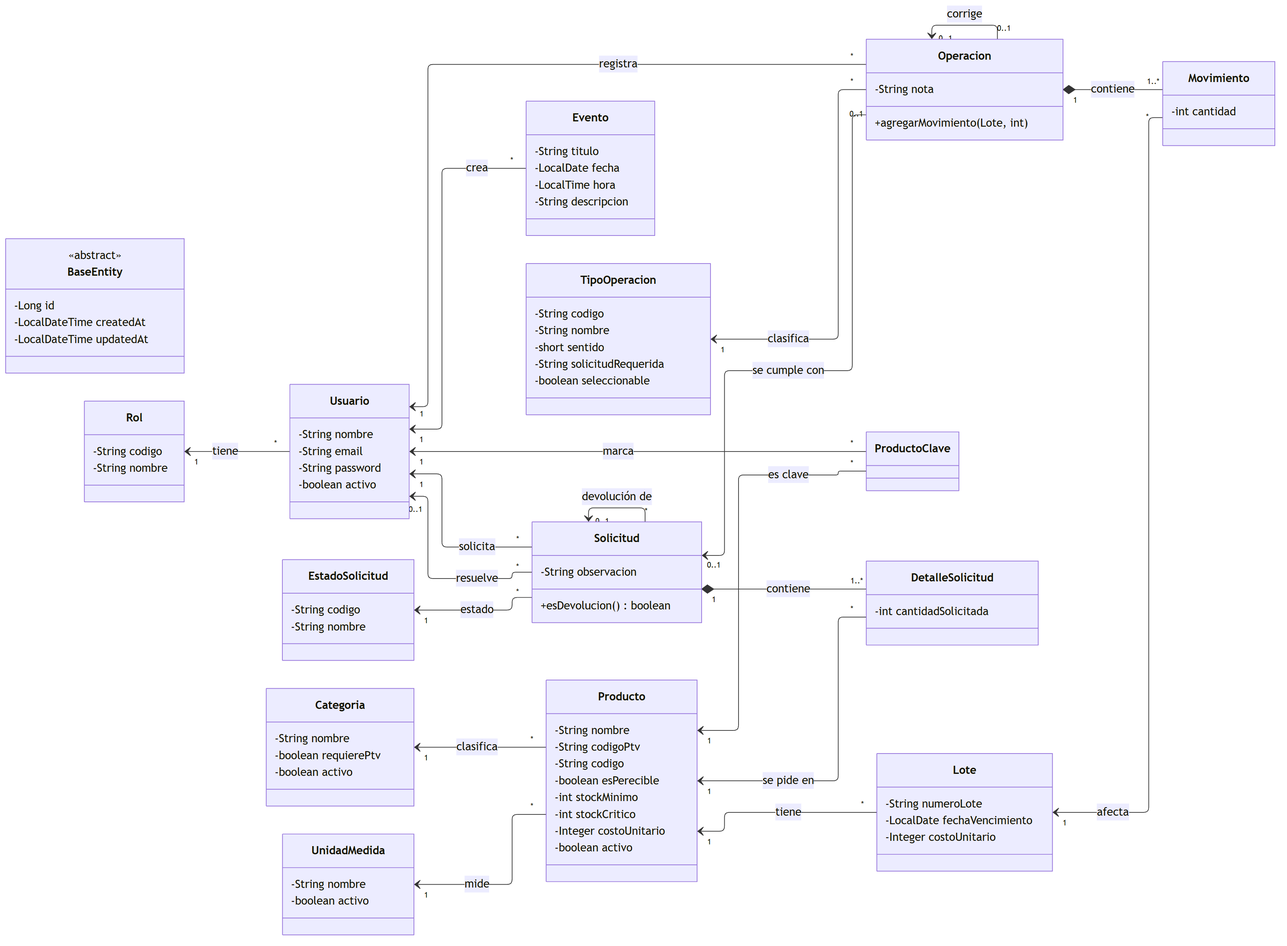
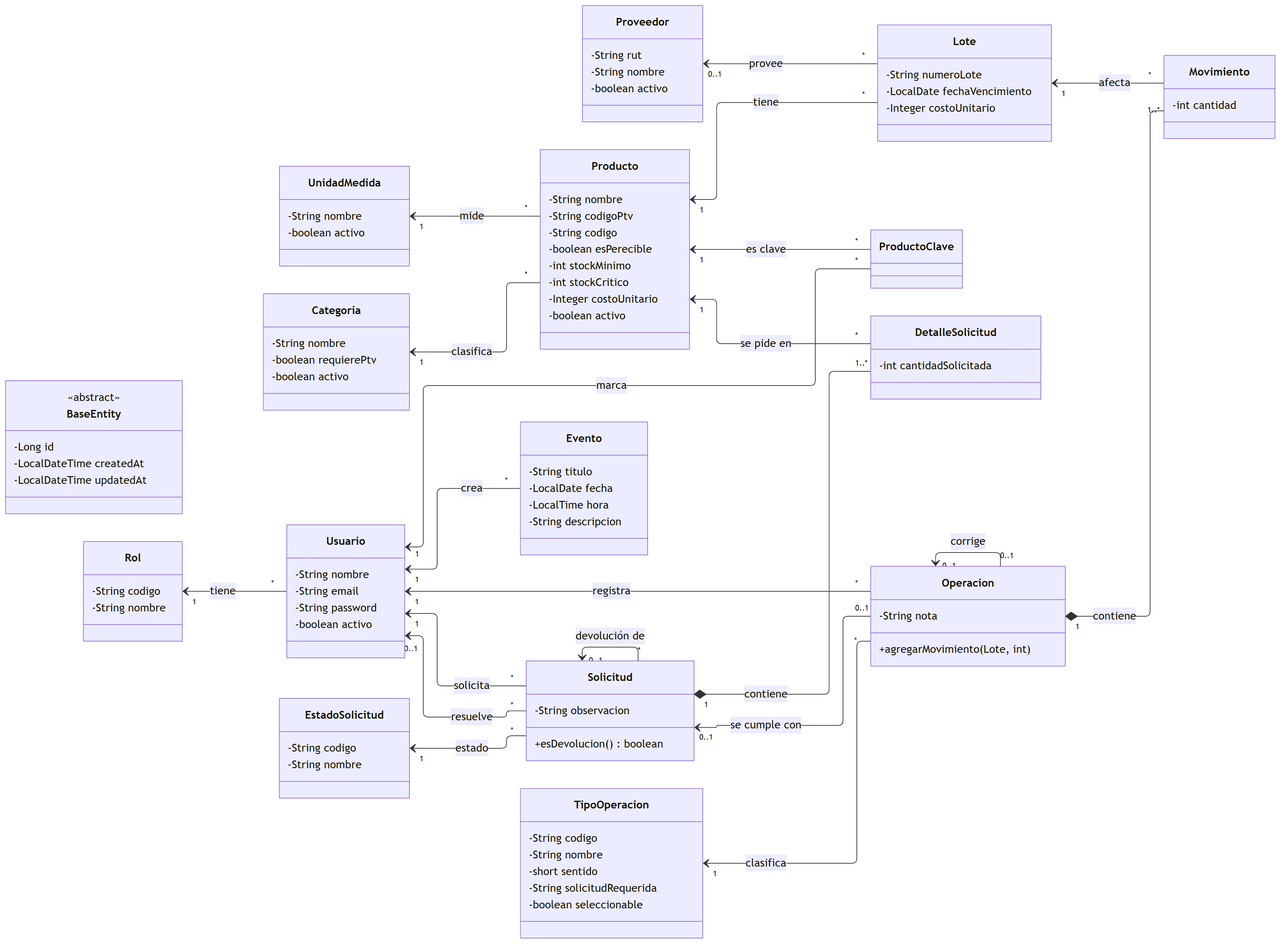
docs(modelo): proveedores, lotes.proveedor_id y diagramas actualizados (iteración 6)

diff --git a/FASE 2/EVIDENCIAS PROYECTO/EVIDENCIAS DE DOCUMENTACIÓN/08-DIAGRAMAS-UML.md b/FASE 2/EVIDENCIAS PROYECTO/EVIDENCIAS DE DOCUMENTACIÓN/08-DIAGRAMAS-UML.md
@@ -1,7 +1,7 @@
 # Diagramas UML — Smart RDP
 
 > Proyecto de Título PTY4614-002D · Equipo 3 · Duoc UC, Sede San Bernardo
-> Versión: borrador para revisión · 26-11-2026 (se actualizó con el panel de analítica)
+> Versión: borrador para revisión · 26-11-2026 (se actualizó con proveedores y la consulta de lotes)
 
 ## 1. Alcance
 
@@ -20,9 +20,11 @@ Los diagramas están escritos en [Mermaid](https://mermaid.js.org), que GitHub d
 
 ## 2. Diagrama de casos de uso
 
-El **Administrador** administra usuarios, usa el panel de analítica y consulta en solo lectura productos, movimientos, stock, alertas y calendario. El **Bodeguero** administra todo lo demás pero no a los usuarios, es el único que aprueba solicitudes, registra las entradas (una compra exige el costo unitario, que alimenta el historial de precios), puede cargarlas desde una planilla Excel, lleva el calendario de eventos de la bodega y también usa el panel de analítica. El **Empleado** no inicia sesión: usa la vista pública y se identifica con su nombre y su contraseña en cada acción; no accede al panel.
+El **Administrador** administra usuarios, usa el panel de analítica y consulta en solo lectura productos, movimientos, stock, alertas, lotes y calendario. El **Bodeguero** administra todo lo demás pero no a los usuarios, es el único que aprueba solicitudes, registra las entradas (una compra exige el costo unitario, que alimenta el historial de precios, y el proveedor), puede cargarlas desde una planilla Excel, mantiene el registro de proveedores, lleva el calendario de eventos de la bodega y también usa el panel de analítica. El **Empleado** no inicia sesión: usa la vista pública y se identifica con su nombre y su contraseña en cada acción; no accede al panel.
 
-El panel de analítica es un caso base, **Consultar panel de analítica**, cuyos bloques (consumo neto, pérdidas, solicitado, pedidos por persona y productos más usados) comparten un mismo filtro: rango de fechas, agrupación por día, semana o mes, categoría, productos y persona. Siempre incluye los vencimientos próximos; el historial de precios de compra (al elegir un producto), los productos clave (una lista propia de cada usuario) y la exportación a Excel con los filtros aplicados son extensiones que el usuario activa cuando las necesita.
+El panel de analítica es un caso base, **Consultar panel de analítica**, cuyos bloques (consumo neto, pérdidas, solicitado, pedidos por persona y productos más usados) comparten un mismo filtro: rango de fechas, agrupación por día, semana o mes, categoría, productos, persona y proveedor; además muestra las compras por proveedor. Siempre incluye los vencimientos próximos; el historial de precios de compra (al elegir un producto, con su comparación por proveedor), los productos clave (una lista propia de cada usuario) y la exportación a Excel con los filtros aplicados son extensiones que el usuario activa cuando las necesita.
+
+**Consultar lotes** lo usan el Administrador y el Bodeguero: lista los lotes con filtros (producto, categoría, proveedor, estado, número de lote y días por vencer), en orden FEFO, y abre el detalle de un lote con su trazabilidad; solo lee, porque los lotes nacen con las entradas. **Gestionar proveedores** (crear, editar, deshabilitar y reactivar, con el RUT validado) es del Bodeguero, igual que las categorías y las unidades de medida.
 
 ```mermaid
 flowchart LR
@@ -36,7 +38,9 @@ flowchart LR
         uc7(["Consultar stock y alertas de vencimiento"])
         uc3(["Gestionar productos"])
         uc4(["Administrar categorías y unidades de medida"])
-        uc5(["Registrar entrada con lote, vencimiento y costo de compra"])
+        uc22(["Gestionar proveedores"])
+        uc5(["Registrar entrada con lote, vencimiento, costo y proveedor de la compra"])
+        uc23(["Consultar lotes y su trazabilidad"])
         uc6(["Registrar salida por FEFO"])
         uc8(["Aprobar o rechazar solicitudes"])
         uc9(["Consultar historial de movimientos y solicitudes"])
@@ -50,7 +54,7 @@ flowchart LR
         subgraph PAN["Panel de analítica"]
             uc2(["Consultar panel de analítica con filtros compartidos"])
             uc18(["Ver vencimientos próximos"])
-            uc19(["Ver historial de precios de compra"])
+            uc19(["Ver historial de precios de compra y compararlo por proveedor"])
             uc20(["Definir mis productos clave"])
             uc21(["Exportar movimientos a Excel con los filtros"])
         end
@@ -60,11 +64,14 @@ flowchart LR
     adm --- uc17
     adm --- uc2
     adm --- uc7
+    adm --- uc23
 
     bod --- uc2
     bod --- uc7
     bod --- uc3
     bod --- uc4
+    bod --- uc22
+    bod --- uc23
     bod --- uc5
     bod --- uc6
     bod --- uc8
@@ -96,7 +103,7 @@ flowchart LR
 
 ## 3. Diagrama de clases del dominio
 
-Todas las entidades de negocio heredan de `BaseEntity` (`id`, `createdAt`, `updatedAt`). `Evento` es una agenda compartida de los bodegueros, sin historial ni triggers. Solo `Solicitud` y `Usuario` tienen historial con Hibernate Envers; `Operacion`, `Movimiento` y `Lote` son inmutables (`@Immutable`, y triggers en la base). El stock no es un atributo: se calcula con vistas. `Lote.costoUnitario` es el costo con que entró el lote: en una compra es obligatorio y de él sale el historial de precios del panel; `Producto.costoUnitario` es solo un valor de referencia. `ProductoClave` (migración V4) es la lista personal de productos que cada usuario sigue en el panel de analítica: une un `Usuario` con un `Producto`, una sola vez por par, sin historial y con borrado en cascada.
+Todas las entidades de negocio heredan de `BaseEntity` (`id`, `createdAt`, `updatedAt`). `Evento` es una agenda compartida de los bodegueros, sin historial ni triggers. `Proveedor` (migración V5) es el mantenedor de a quién se le compra: tiene RUT normalizado y único, nombre único sin distinguir mayúsculas y estado `activo`; hereda de `BaseEntity` y no de la base de los catálogos de nombre corto (`CatalogoEntity`), porque necesita un nombre de 100 caracteres y una unicidad distinta. Cada `Lote` tiene cero o un `Proveedor`: es obligatorio en una compra (regla del servicio, no de la base) y los lotes anteriores a V5 no lo tienen. Solo `Solicitud` y `Usuario` tienen historial con Hibernate Envers; `Operacion`, `Movimiento` y `Lote` son inmutables (`@Immutable`, y triggers en la base). El stock no es un atributo: se calcula con vistas. `Lote.costoUnitario` es el costo con que entró el lote: en una compra es obligatorio y de él sale el historial de precios del panel; `Producto.costoUnitario` es solo un valor de referencia. `ProductoClave` (migración V4) es la lista personal de productos que cada usuario sigue en el panel de analítica: une un `Usuario` con un `Producto`, una sola vez por par, sin historial y con borrado en cascada.
 
 ```mermaid
 classDiagram
@@ -174,12 +181,18 @@ classDiagram
         -String descripcion
     }
     class ProductoClave
+    class Proveedor {
+        -String rut
+        -String nombre
+        -boolean activo
+    }
 
 
     Rol "1" <-- "*" Usuario : tiene
     Categoria "1" <-- "*" Producto : clasifica
     UnidadMedida "1" <-- "*" Producto : mide
     Producto "1" <-- "*" Lote : tiene
+    Proveedor "0..1" <-- "*" Lote : provee
     Producto "1" <-- "*" ProductoClave : es clave
     Usuario "1" <-- "*" ProductoClave : marca
     TipoOperacion "1" <-- "*" Operacion : clasifica
@@ -283,7 +296,7 @@ sequenceDiagram
 
 ## 6. Diagrama de arquitectura y despliegue
 
-La arquitectura es **cliente-servidor**: una aplicación de una sola página (SPA) en Angular consume una API REST de Spring Boot, que persiste en PostgreSQL. El backend es un **monolito modular en capas** (controlador, servicio, repositorio) con un paquete por dominio: `producto`, `movimiento`, `solicitud`, `usuario`, `catalogo`, `analitica`, `auditoria`, `evento`, `publico`. La seguridad es sin estado: el cliente envía un token JWT en cada petición y un filtro valida el rol antes de llegar al controlador. El panel de analítica se sirve bajo `/api/analitica/panel/*` (resumen, consumo por período, productos más usados, pedidos por persona, precios y productos clave), junto a `/api/analitica/vencimientos` y `/api/analitica/exportar-movimientos`; todo `/api/analitica` es solo para Administrador y Bodeguero.
+La arquitectura es **cliente-servidor**: una aplicación de una sola página (SPA) en Angular consume una API REST de Spring Boot, que persiste en PostgreSQL. El backend es un **monolito modular en capas** (controlador, servicio, repositorio) con un paquete por dominio: `producto`, `movimiento`, `solicitud`, `usuario`, `catalogo`, `analitica`, `auditoria`, `evento`, `publico`. La seguridad es sin estado: el cliente envía un token JWT en cada petición y un filtro valida el rol antes de llegar al controlador. El panel de analítica se sirve bajo `/api/analitica/panel/*` (resumen, consumo por período, productos más usados, pedidos por persona, precios, compras por proveedor y productos clave), junto a `/api/analitica/vencimientos` y `/api/analitica/exportar-movimientos`; todo `/api/analitica` es solo para Administrador y Bodeguero.
 
 ```mermaid
 flowchart LR
@@ -293,13 +306,13 @@ flowchart LR
 
     subgraph SRV["Servidor local o red LAN: Spring Boot 4, Java 21"]
         SEC["Seguridad<br/>JwtAuthenticationFilter y SecurityConfig<br/>(roles Administrador, Bodeguero, Empleado)"]
-        CTL["Capa web: controladores REST<br/>/api/auth, /api/productos, /api/movimientos,<br/>/api/categorias, /api/unidades-medida,<br/>/api/solicitudes, /api/auditoria,<br/>/api/analitica y /api/analitica/panel,<br/>/api/usuarios, /api/publico,<br/>/api/eventos"]
+        CTL["Capa web: controladores REST<br/>/api/auth, /api/productos, /api/movimientos,<br/>/api/categorias, /api/unidades-medida,<br/>/api/proveedores, /api/lotes,<br/>/api/solicitudes, /api/auditoria,<br/>/api/analitica y /api/analitica/panel,<br/>/api/usuarios, /api/publico,<br/>/api/eventos"]
         SVC["Capa de servicios<br/>reglas de negocio, FEFO y transacciones"]
         REP["Capa de persistencia<br/>Spring Data JPA, Hibernate y Envers"]
         SEC --> CTL --> SVC --> REP
     end
 
-    DB[("PostgreSQL<br/>base smartrdp<br/>esquema con Flyway (V1 a V4)")]
+    DB[("PostgreSQL<br/>base smartrdp<br/>esquema con Flyway (V1 a V5)")]
 
     SPA -- "HTTP y JSON,<br/>Authorization: Bearer" --> SEC
     REP -- "JDBC" --> DB
@@ -312,7 +325,7 @@ flowchart LR
 | Estilo general | Cliente-servidor con SPA y API REST | Separa la interfaz de las reglas de negocio y deja el frontend reutilizable. |
 | Organización del backend | Monolito modular en capas, un paquete por dominio | Es simple de desplegar en el restaurante y suficiente para un equipo de tres personas. |
 | Seguridad | Autenticación con JWT sin estado y control de acceso por rol (RBAC) | El servidor no guarda sesiones y cada ruta declara qué roles la usan. |
-| Persistencia | JPA con Hibernate sobre PostgreSQL; auditoría con Envers; esquema versionado con Flyway (V4 agrega `productos_clave`) | Trazabilidad de quién cambió qué y cuándo, sin código manual en la lógica de negocio; cada cambio de esquema queda como una migración. |
+| Persistencia | JPA con Hibernate sobre PostgreSQL; auditoría con Envers; esquema versionado con Flyway (V4 agrega `productos_clave` y V5 agrega `proveedores`) | Trazabilidad de quién cambió qué y cuándo, sin código manual en la lógica de negocio; cada cambio de esquema queda como una migración. |
 | Despliegue | Local o en la red LAN del restaurante; el `docker-compose.yml` levanta PostgreSQL, el backend y el frontend (nginx) | Corresponde a la restricción de conectividad local del proyecto. La decisión final de infraestructura sigue pendiente con el cliente. |
 
 ## 7. Diagrama de componentes
@@ -324,9 +337,9 @@ flowchart LR
     subgraph FE["Frontend: Angular 22 (SPA) servida por nginx o ng serve"]
         direction TB
         FCORE["core<br/>sesión y guardias de ruta,<br/>interceptor que agrega el JWT,<br/>manejo de errores y avisos"]
-        FFEAT["features<br/>productos, movimientos, solicitudes,<br/>calendario, usuarios,<br/>vista pública del empleado"]
-        FANA["features/analitica<br/>panel con filtros compartidos,<br/>gráficos, vencimientos, precios<br/>y productos clave"]
-        FSH["shared<br/>modal, paginación,<br/>orden, confirmación,<br/>estados y calendario"]
+        FFEAT["features<br/>productos, movimientos y lotes, solicitudes,<br/>calendario, usuarios,<br/>administración (categorías,<br/>unidades y proveedores),<br/>vista pública del empleado"]
+        FANA["features/analitica<br/>panel con filtros compartidos,<br/>gráficos, vencimientos, precios,<br/>compras por proveedor<br/>y productos clave"]
+        FSH["shared<br/>modal, paginación,<br/>orden, confirmación,<br/>estados, calendario<br/>y proveedores (servicio y RUT)"]
         FFEAT --> FCORE
         FFEAT --> FSH
         FANA --> FCORE
@@ -340,8 +353,8 @@ flowchart LR
         subgraph DOM["Componentes de dominio: controlador, servicio y repositorio"]
             direction LR
             PRO["producto"]
-            CAT["catalogo"]
-            MOV["movimiento<br/>(operaciones, lotes, FEFO)"]
+            CAT["catalogo<br/>(categorías, unidades<br/>y proveedores)"]
+            MOV["movimiento<br/>(operaciones, lotes y su consulta, FEFO)"]
             SOL["solicitud<br/>(pedidos y devoluciones)"]
             USU["usuario"]
             EVE["evento"]
@@ -354,6 +367,7 @@ flowchart LR
         DOM -.-> EXC
         PRO --> CAT
         MOV --> PRO
+        MOV --> CAT
         SOL --> MOV
         SOL --> USU
         ANA --> MOV
@@ -378,8 +392,10 @@ Versión en imagen: [DIAGRAMA DE COMPONENTES.png](DIAGRAMA%20DE%20COMPONENTES.pn
 | Desde | Hacia | Interfaz | Detalle |
 |---|---|---|---|
 | Frontend (`core`) | Seguridad del backend | API REST sobre HTTP y JSON | Cada petición lleva `Authorization: Bearer <token JWT>`; el filtro valida el token y el rol antes de llegar al controlador. |
-| Frontend (`features/analitica`) | `analitica` | API REST `/api/analitica/panel/*`, `/api/analitica/vencimientos` y `/api/analitica/exportar-movimientos` | Todos los bloques reciben el mismo filtro (fechas, agrupación, categoría, productos y persona); la exportación devuelve un archivo `.xlsx` con esos filtros. Las listas largas usan el paginador compartido `app-paginacion` de `shared`. |
+| Frontend (`features/analitica`) | `analitica` | API REST `/api/analitica/panel/*`, `/api/analitica/vencimientos` y `/api/analitica/exportar-movimientos` | Todos los bloques reciben el mismo filtro (fechas, agrupación, categoría, productos, persona y proveedor); la exportación devuelve un archivo `.xlsx` con esos filtros. Las listas largas usan el paginador compartido `app-paginacion` de `shared`. |
 | `analitica` | `movimiento`, `producto` y `usuario` | Llamadas a métodos dentro del mismo proceso | Lee el libro de movimientos y las vistas de inventario, los productos y los usuarios (solicitantes y usuario autenticado, dueño de sus productos clave). |
+| Frontend (`features/movimientos` y `features/administracion`) | `movimiento` y `catalogo` | API REST `/api/lotes` (solo lectura: lista con filtros y detalle con trazabilidad) y `/api/proveedores` | El servicio `ProveedorService` de `shared` consulta y mantiene los proveedores; el RUT se valida también en el cliente con el módulo 11. La lectura es para Administrador y Bodeguero; crear, editar, deshabilitar y reactivar un proveedor, solo para el Bodeguero. |
+| `movimiento` | `catalogo` | Llamadas a métodos dentro del mismo proceso | Al registrar una entrada, el lote queda asociado a su proveedor: una compra lo exige y debe estar habilitado. |
 | Componentes de dominio | PostgreSQL | JDBC, mediante JPA, Hibernate y Envers | El esquema lo crean y versionan las migraciones de Flyway; Envers escribe las tablas de auditoría. |
 | Cualquier componente de dominio | `exception` | Manejador global de excepciones | Convierte los errores de negocio, de validación y de base de datos en respuestas HTTP con un mensaje legible. |
 

diff --git a/FASE 2/EVIDENCIAS PROYECTO/EVIDENCIAS DE SISTEMA/BASE DE DATOS/07-MODELO-DE-DATOS.md b/FASE 2/EVIDENCIAS PROYECTO/EVIDENCIAS DE SISTEMA/BASE DE DATOS/07-MODELO-DE-DATOS.md
@@ -1,15 +1,15 @@
 # Modelo de datos — Smart RDP
 
 > Proyecto de Título PTY4614-002D · Equipo 3 · Duoc UC, Sede San Bernardo
-> Versión: modelo vigente: libro de operaciones y movimientos, con productos clave del panel de analítica (V4) · 26-11-2026
+> Versión: modelo vigente: libro de operaciones y movimientos, con productos clave del panel de analítica (V4) y proveedores en los lotes (V5) · 26-11-2026
 
 ## 1. Propósito y fuente
 
 Este documento describe el modelo de datos relacional de Smart RDP: el diagrama entidad-relación, el diccionario de datos de cada tabla y las reglas de integridad.
 
-**Fuente.** El esquema se define en `backend/src/main/resources/db/migration/` (migraciones de Flyway: `V1__esquema.sql`, `V2__blindaje_libro_y_catalogos.sql`, `V3__eventos.sql` y `V4__productos_clave.sql`) y se contrastó con la base de desarrollo (PostgreSQL 18, base `smartrdp`) y con las entidades JPA del backend (`backend/src/main/java/com/smartrdp/backend`). Hibernate solo **valida** que las entidades coincidan con ese esquema (`spring.jpa.hibernate.ddl-auto=validate`); no crea ni modifica tablas. Las reglas de integridad que cruzan tablas las garantizan triggers de PostgreSQL definidos en la misma migración. Las tablas `eventos` (V3, una agenda) y `productos_clave` (V4, una preferencia de cada usuario para el panel de analítica) no son registros contables: no llevan triggers ni auditoría.
+**Fuente.** El esquema se define en `backend/src/main/resources/db/migration/` (migraciones de Flyway: `V1__esquema.sql`, `V2__blindaje_libro_y_catalogos.sql`, `V3__eventos.sql`, `V4__productos_clave.sql` y `V5__proveedores.sql`) y se contrastó con la base de desarrollo (PostgreSQL 18, base `smartrdp`) y con las entidades JPA del backend (`backend/src/main/java/com/smartrdp/backend`). Hibernate solo **valida** que las entidades coincidan con ese esquema (`spring.jpa.hibernate.ddl-auto=validate`); no crea ni modifica tablas. Las reglas de integridad que cruzan tablas las garantizan triggers de PostgreSQL definidos en la misma migración. Las tablas `eventos` (V3, una agenda) y `productos_clave` (V4, una preferencia de cada usuario para el panel de analítica) no son registros contables: no llevan triggers ni auditoría. La tabla `proveedores` (V5) es un mantenedor, como `categorias` (se deshabilita, no se borra); no lleva triggers propios ni auditoría. Su única relación es la columna opcional `lotes.proveedor_id`, que agrega la misma migración; como es DDL, el trigger que protege la inmutabilidad de los lotes (que vigila `UPDATE` y `DELETE`) no interviene.
 
-**Cómo leer el diagrama.** La notación es de pata de gallo (crow's foot): `||` exactamente uno, `|o` cero o uno, `o{` cero o muchos, `|{` uno o muchos. Para no recargar el diagrama se omiten las columnas comunes `created_at` y `updated_at` (ver sección 3). El stock no es una columna de ninguna tabla: se calcula con vistas a partir del libro de operaciones y movimientos (ver 3.16).
+**Cómo leer el diagrama.** La notación es de pata de gallo (crow's foot): `||` exactamente uno, `|o` cero o uno, `o{` cero o muchos, `|{` uno o muchos. Para no recargar el diagrama se omiten las columnas comunes `created_at` y `updated_at` (ver sección 3). El stock no es una columna de ninguna tabla: se calcula con vistas a partir del libro de operaciones y movimientos (ver 3.17).
 
 ## 2. Diagrama entidad-relación
 
@@ -39,6 +39,7 @@ erDiagram
     LOTES ||--o{ MOVIMIENTOS : afecta
     PRODUCTOS ||--o{ LOTES : tiene
     PRODUCTOS_CLAVE }o--|| PRODUCTOS : "apunta a"
+    PROVEEDORES |o--o{ LOTES : "provee"
     CATEGORIAS ||--o{ PRODUCTOS : clasifica
     UNIDADES_MEDIDA ||--o{ PRODUCTOS : mide
 
@@ -103,6 +104,7 @@ erDiagram
         varchar numero_lote
         date fecha_vencimiento
         int costo_unitario "opcional"
+        bigint proveedor_id FK "opcional"
     }
     PRODUCTOS {
         bigint id PK
@@ -129,6 +131,12 @@ erDiagram
         bigint id PK
         bigint usuario_id FK "unico con producto_id"
         bigint producto_id FK "unico con usuario_id"
+    }
+    PROVEEDORES {
+        bigint id PK
+        varchar rut UK "normalizado, 12345678-5"
+        varchar nombre "unico sin distinguir mayusculas"
+        boolean activo
     }
     CATEGORIAS {
         bigint id PK
@@ -262,6 +270,7 @@ Todas las tablas de negocio (no las de auditoría) heredan de `BaseEntity` estas
 | `numero_lote` | character varying(50) | Sí | Número de lote del proveedor, si lo hay. |
 | `fecha_vencimiento` | date | Sí | Fecha de vencimiento; nula en productos no perecibles. El FEFO descuenta primero el que vence antes. |
 | `costo_unitario` | integer | Sí | Costo en pesos de esta tanda. La base lo admite nulo, pero el backend lo exige en las compras (`COMPRA`): el panel de analítica lo usa para valorizar el consumo, las pérdidas y el historial de precios de compra. En las demás entradas, si no se indica, el lote toma el costo de referencia del producto. Un lote no se modifica después de creado. |
+| `proveedor_id` | bigint | Sí | Proveedor al que se le compró la tanda (`proveedores`). Clave foránea a `proveedores.id`, con el índice `ix_lotes_proveedor`. La base lo admite nulo; el backend lo exige en las compras y es opcional en el inventario inicial y en los ajustes. Los lotes creados antes de la migración `V5` quedan sin proveedor y, por ser inmutables, no se les asigna uno después. |
 
 ### 3.10 `solicitudes`
 
@@ -327,7 +336,24 @@ Además de las columnas comunes (`id`, `created_at`, `updated_at`, ver 3.1):
 - **Borrado en cascada.** Si se borrara el usuario o el producto, desaparecería la fila. En la práctica no ocurre, porque ni los usuarios ni los productos se borran (se desactivan, ver sección 4); la cascada solo evita filas huérfanas.
 - **Cardinalidad.** Un usuario tiene cero o muchas filas y un producto puede ser clave de cero o muchos usuarios: la tabla resuelve la relación muchos a muchos entre `usuarios` y `productos`.
 
-### 3.16 Vistas de inventario
+### 3.16 `proveedores`
+
+A quién se le compra (migración `V5`). Es un mantenedor de la bodega, como `categorias`: no es un registro contable, no tiene Envers ni triggers, y un proveedor no se borra, se deshabilita. Cada lote puede apuntar a su proveedor mediante `lotes.proveedor_id` (ver 3.9); la pantalla de lotes y el panel de analítica lo usan para filtrar y para comparar precios y compras por proveedor.
+
+| Columna | Tipo | ¿Nulo? | Descripción |
+|---|---|---|---|
+| `rut` | character varying(12) | No | RUT del proveedor, guardado normalizado (`12345678-5`: sin puntos, con guion, `K` en mayúscula y sin ceros a la izquierda). Único (`uq_proveedores_rut`). |
+| `nombre` | character varying(100) | No | Nombre o razón social. Único sin distinguir mayúsculas ni minúsculas (índice `uq_proveedores_nombre` sobre `lower(nombre)`). |
+| `activo` | boolean | No | `false` si el proveedor se deshabilitó (no se borra); un proveedor deshabilitado no se puede elegir en entradas nuevas, pero sus lotes lo conservan. |
+
+Además de las columnas comunes (`id`, `created_at`, `updated_at`, ver 3.1):
+
+- **RUT validado.** El backend acepta el RUT con o sin puntos y guion, valida el dígito verificador con el módulo 11 y lo guarda normalizado; el cuerpo debe tener 7 u 8 dígitos sin contar ceros a la izquierda, así que `00000000-0` no es un RUT. La base solo exige que sea único.
+- **Herencia en el backend.** `Proveedor` extiende `BaseEntity` y no `CatalogoEntity` (desvío justificado): `CatalogoEntity.nombre` tiene largo 50 y un criterio de unicidad distinto, mientras que el proveedor necesita nombre de 100 caracteres, unicidad por `lower(nombre)` y además un RUT único.
+- **Cardinalidad.** Un proveedor tiene cero o muchos lotes y un lote tiene cero o un proveedor.
+- **Sin CHECK de obligatoriedad.** Que una compra exija proveedor no cabe en una fila de `lotes` (depende del tipo de la operación que crea el lote), así que la regla vive en el servicio (ver sección 4).
+
+### 3.17 Vistas de inventario
 
 El stock **no se guarda**: se calcula con estas vistas, que son la única fuente de verdad.
 
@@ -336,7 +362,7 @@ El stock **no se guarda**: se calcula con estas vistas, que son la única fuente
 - **`solicitado_vs_entregado`** — Por solicitud y producto: lo solicitado, lo entregado y si es un agregado (entregado sin haber sido pedido). Columnas: `solicitud_id`, `producto_id`, `cantidad_solicitada`, `cantidad_entregada`, `agregado`.
 - **`devolvible_lote`** — Por pedido y lote: cuánto se entregó, cuánto se devolvió y cuánto aún se puede devolver. Columnas: `pedido_id`, `lote_id`, `producto_id`, `movimiento_id`, `entregado`, `devuelto`, `devolvible`.
 
-### 3.17 Tablas de auditoría (Envers)
+### 3.18 Tablas de auditoría (Envers)
 
 `revinfo` guarda una fila por revisión (marca de tiempo y correo de quien la hizo); `solicitudes_aud` y `usuarios_aud` copian las columnas auditadas de la tabla de negocio más `rev` y `revtype` (0 alta, 1 modificación, 2 baja).
 
@@ -368,14 +394,17 @@ Criterio: lo que cabe en una fila lo garantiza la base con `CHECK`, `UNIQUE` o c
 | El libro y los catálogos no se vacían con `TRUNCATE`; solo el repoblado de desarrollo lo habilita (`SET smartrdp.permitir_truncate = 'on'`). | Triggers `BEFORE TRUNCATE` (V2). |
 | Las salidas descuentan por FEFO: primero el lote que vence antes. | Backend (`MovimientoService`). |
 | En un pedido el bodeguero entrega, de cada producto solicitado, hasta lo que se pidió (o menos), y puede sumar otros productos que no se pidieron: esos son los «agregados». | Backend y vista `solicitado_vs_entregado`. |
-| El panel de analítica calcula el consumo con el libro: entregas de pedidos (`ENTREGA_PEDIDO`) menos devoluciones (`DEVOLUCION`), valorizadas con el costo del lote; las mermas y los vencimientos se cuentan aparte como pérdidas. No cuentan las correcciones ni las operaciones que una corrección anuló. Los productos con neto 0 o negativo no aparecen en «productos más usados». Las líneas cuyo lote no tiene costo valen 0 y se informan como «sin costo». | Backend (`PanelRepository` y `PanelService`). |
+| El panel de analítica calcula el consumo con el libro: entregas de pedidos (`ENTREGA_PEDIDO`) menos devoluciones (`DEVOLUCION`), valorizadas con el costo del lote; las mermas y los vencimientos se cuentan aparte como pérdidas. No cuentan las correcciones ni las operaciones que una corrección anuló. Los productos con neto 0 o negativo no aparecen en «productos más usados». Las líneas cuyo lote no tiene costo valen 0 y se informan como «sin costo». El filtro por proveedor se aplica sobre `lotes.proveedor_id`, y el bloque «Compras por proveedor» suma las compras del período a costo de lote (los lotes sin proveedor aparecen como «Sin proveedor»). | Backend (`PanelRepository` y `PanelService`). |
 | Una compra exige el costo unitario de cada línea; sin él no se puede seguir el precio de compra de un producto. | Backend (`MovimientoService`); en la base `lotes.costo_unitario` admite nulo. |
 | Los productos clave de un usuario no se repiten y no pasan de 50; al guardar, la lista se reemplaza completa. | Base (`uq_productos_clave_usuario_producto`) y backend (`ProductoClaveService`). |
-| No se borran productos, categorías, unidades ni usuarios: se desactivan con `activo = false`. | Backend. Las filas de `productos_clave` caerían en cascada si alguno se borrara. |
+| El RUT de un proveedor se valida (módulo 11) y se guarda normalizado; es único, y el nombre también lo es sin distinguir mayúsculas. | Backend (`Rut` y `ProveedorService`) y base (`uq_proveedores_rut` y `uq_proveedores_nombre`). |
+| Una compra exige el proveedor de cada línea; en el inventario inicial y en los ajustes es opcional, pero si viene debe existir y estar habilitado. | Backend (`MovimientoService`); en la base `lotes.proveedor_id` admite nulo (no hay `CHECK`: la regla depende del tipo de la operación). |
+| Los lotes anteriores a la migración `V5` quedan sin proveedor y no se les asigna después; el proveedor de un lote ya creado no se edita. | Inmutabilidad de `lotes` (trigger `INM` y `@Immutable`). |
+| No se borran productos, categorías, unidades, proveedores ni usuarios: se desactivan con `activo = false`. | Backend. Las filas de `productos_clave` caerían en cascada si alguno de sus productos o usuarios se borrara. |
 
 ## 5. Valores permitidos
 
-Los valores viven en tablas de catálogo (cargadas por la migración `V1`), no en `CHECK` de texto. `productos_clave` (V4) no es un catálogo ni lleva valores permitidos.
+Los valores viven en tablas de catálogo (cargadas por la migración `V1`), no en `CHECK` de texto. `productos_clave` (V4) y `proveedores` (V5) no son catálogos de valores ni llevan valores permitidos: sus filas las crean los usuarios.
 
 | Catálogo | Código | Significado |
 |---|---|---|
